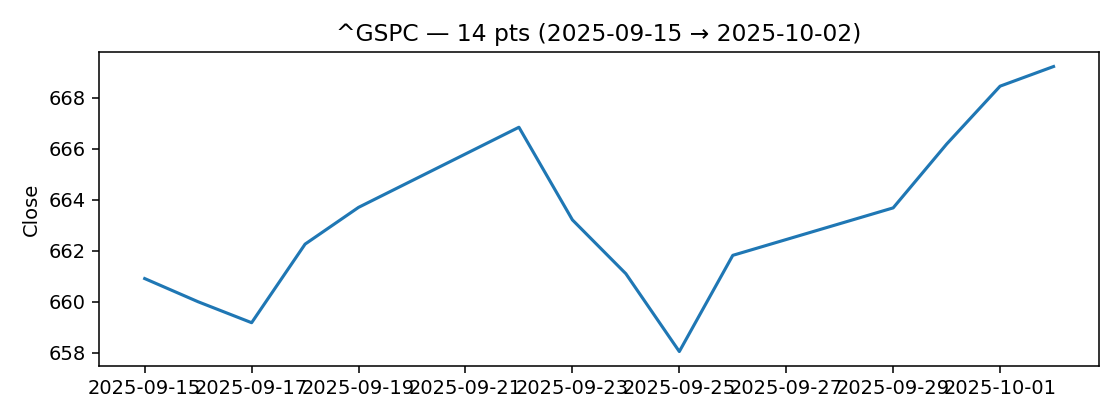
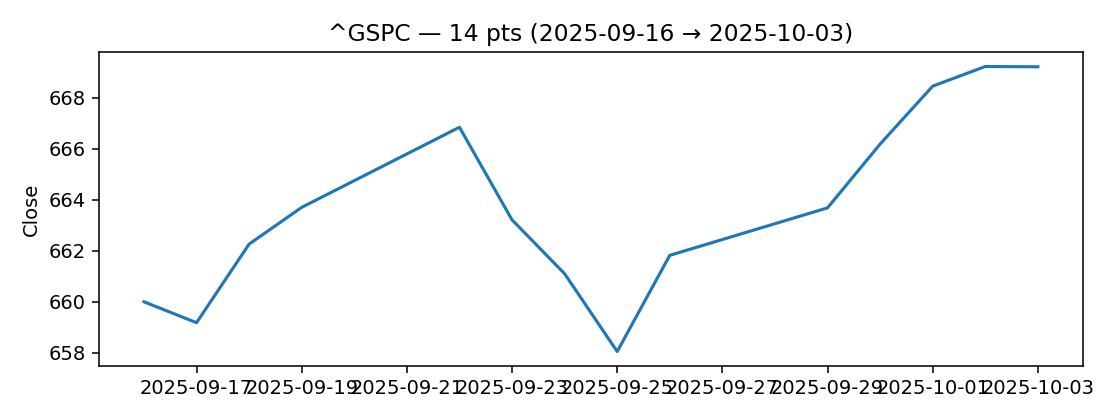
chore: update daily report 2025-10-04 08:45

diff --git a/docs/daily_report.html b/docs/daily_report.html
@@ -108,7 +108,7 @@
   <header>
     <div>
       <h1>Daily Study & News Companion</h1>
-      <div class="sub">2025-10-03 08:18 · TZ: CST</div>
+      <div class="sub">2025-10-04 08:45 · TZ: CST</div>
     </div>
     <button class="btn" id="themeBtn">🌓 Tema</button>
   </header>
@@ -150,11 +150,11 @@
           </div>
           <div class="mkt-body">
             <div class="metrics-row">
-          <div class="kv"><span>Last</span><b>222.41</b></div>
-          <div class="kv"><span>d/d</span><b class="down">-3.90%</b></div>
+          <div class="kv"><span>Last</span><b>219.51</b></div>
+          <div class="kv"><span>d/d</span><b class="down">-6.21%</b></div>
           <div class="kv"><span>Mín</span><b>218.15</b></div>
           <div class="kv"><span>Máx</span><b>234.05</b></div>
-          <div class="kv"><span>σ</span><b>5.56</b></div>
+          <div class="kv"><span>σ</span><b>5.44</b></div>
         </div>
             <div class="chart"><img src="charts/AMZN_close.png" alt="AMZN chart" loading="lazy"/></div>
           </div>
@@ -167,11 +167,11 @@
           </div>
           <div class="mkt-body">
             <div class="metrics-row">
-          <div class="kv"><span>Last</span><b>515.74</b></div>
-          <div class="kv"><span>d/d</span><b class="up">0.07%</b></div>
+          <div class="kv"><span>Last</span><b>517.35</b></div>
+          <div class="kv"><span>d/d</span><b class="up">1.63%</b></div>
           <div class="kv"><span>Mín</span><b>507.03</b></div>
           <div class="kv"><span>Máx</span><b>519.71</b></div>
-          <div class="kv"><span>σ</span><b>3.94</b></div>
+          <div class="kv"><span>σ</span><b>4.06</b></div>
         </div>
             <div class="chart"><img src="charts/MSFT_close.png" alt="MSFT chart" loading="lazy"/></div>
           </div>
@@ -184,11 +184,11 @@
           </div>
           <div class="mkt-body">
             <div class="metrics-row">
-          <div class="kv"><span>Last</span><b>188.89</b></div>
-          <div class="kv"><span>d/d</span><b class="up">6.27%</b></div>
+          <div class="kv"><span>Last</span><b>187.62</b></div>
+          <div class="kv"><span>d/d</span><b class="up">7.28%</b></div>
           <div class="kv"><span>Mín</span><b>170.29</b></div>
           <div class="kv"><span>Máx</span><b>188.89</b></div>
-          <div class="kv"><span>σ</span><b>5.08</b></div>
+          <div class="kv"><span>σ</span><b>5.43</b></div>
         </div>
             <div class="chart"><img src="charts/NVDA_close.png" alt="NVDA chart" loading="lazy"/></div>
           </div>
@@ -201,11 +201,11 @@
           </div>
           <div class="mkt-body">
             <div class="metrics-row">
-          <div class="kv"><span>Last</span><b>436.00</b></div>
-          <div class="kv"><span>d/d</span><b class="up">6.33%</b></div>
-          <div class="kv"><span>Mín</span><b>410.04</b></div>
+          <div class="kv"><span>Last</span><b>429.83</b></div>
+          <div class="kv"><span>d/d</span><b class="up">1.95%</b></div>
+          <div class="kv"><span>Mín</span><b>416.85</b></div>
           <div class="kv"><span>Máx</span><b>459.46</b></div>
-          <div class="kv"><span>σ</span><b>12.69</b></div>
+          <div class="kv"><span>σ</span><b>11.15</b></div>
         </div>
             <div class="chart"><img src="charts/TSLA_close.png" alt="TSLA chart" loading="lazy"/></div>
           </div>
@@ -218,11 +218,11 @@
           </div>
           <div class="mkt-body">
             <div class="metrics-row">
-          <div class="kv"><span>Last</span><b>669.22</b></div>
-          <div class="kv"><span>d/d</span><b class="up">1.26%</b></div>
+          <div class="kv"><span>Last</span><b>669.21</b></div>
+          <div class="kv"><span>d/d</span><b class="up">1.40%</b></div>
           <div class="kv"><span>Mín</span><b>658.05</b></div>
           <div class="kv"><span>Máx</span><b>669.22</b></div>
-          <div class="kv"><span>σ</span><b>3.29</b></div>
+          <div class="kv"><span>σ</span><b>3.57</b></div>
         </div>
             <div class="chart"><img src="charts/^GSPC_close.png" alt="^GSPC chart" loading="lazy"/></div>
           </div>
@@ -250,8 +250,20 @@
             <ul class="news-list">
               <li class="news-item" data-topic="AI">
                 <span class="dot"></span>
-                <a href="https://www.bloomberg.com/news/articles/2025-10-03/us-stocks-edge-higher-on-optimism-over-ai-momentum-fed-easing" target="_blank" rel="noreferrer">US Stocks Edge Higher on Optimism Over AI Momentum, Fed Easing</a>
-                <div class="meta">2025-10-03 13:38 · <span class="src">Natalia Kniazhevich</span></div>
+                <a href="https://www.bloomberg.com/news/articles/2025-10-04/the-big-ai-trade-in-europe-is-all-about-data-centers-and-power" target="_blank" rel="noreferrer">The Big AI Trade in Europe Is All About Data Centers and Power</a>
+                <div class="meta">2025-10-04 08:00 · <span class="src">Margaryta Kirakosian, Sagarika Jaisinghani</span></div>
+              </li>
+            
+              <li class="news-item" data-topic="AI">
+                <span class="dot"></span>
+                <a href="https://www.bloomberg.com/news/articles/2025-10-03/blackrock-s-40-billion-bet-on-a-lesser-known-data-center-firm" target="_blank" rel="noreferrer">BlackRock’s $40 Billion Bet on a Lesser-Known Data Center Firm</a>
+                <div class="meta">2025-10-03 20:41 · <span class="src">Emily Forgash</span></div>
+              </li>
+            
+              <li class="news-item" data-topic="AI">
+                <span class="dot"></span>
+                <a href="https://www.bloomberg.com/news/videos/2025-10-03/opinion-sora-is-sam-altman-s-new-ai-time-suck-video" target="_blank" rel="noreferrer">Sora Is Sam Altman’s New AI Time Suck</a>
+                <div class="meta">2025-10-03 14:54 · <span class="src">www.bloomberg.com</span></div>
               </li>
             
               <li class="news-item" data-topic="AI">
@@ -262,26 +274,14 @@
             
               <li class="news-item" data-topic="AI">
                 <span class="dot"></span>
-                <a href="https://www.bloomberg.com/news/videos/2025-10-03/the-opening-trade-10-3-video" target="_blank" rel="noreferrer">BBVA & Sabadell Clash as Bid Enters Final Days, European Stocks Record High | The Opening Trade 10/3</a>
-                <div class="meta">2025-10-03 11:42 · <span class="src">www.bloomberg.com</span></div>
-              </li>
-            
-              <li class="news-item" data-topic="AI">
-                <span class="dot"></span>
                 <a href="https://www.bloomberg.com/news/newsletters/2025-10-03/openai-s-sora-video-app-raises-risk-for-rampant-misinformation" target="_blank" rel="noreferrer">OpenAI’s Sora Video App Heightens Risk for Misinformation</a>
                 <div class="meta">2025-10-03 11:03 · <span class="src">Rachel Metz</span></div>
               </li>
             
               <li class="news-item" data-topic="AI">
                 <span class="dot"></span>
-                <a href="https://www.bloomberg.com/news/articles/2025-10-03/european-stocks-set-for-best-week-since-may-on-ai-optimism" target="_blank" rel="noreferrer">European Stocks Set for Best Week Since May on AI Optimism</a>
-                <div class="meta">2025-10-03 07:17 · <span class="src">Levin Stamm</span></div>
-              </li>
-            
-              <li class="news-item" data-topic="AI">
-                <span class="dot"></span>
-                <a href="https://www.bloomberg.com/news/articles/2025-10-03/emerging-markets-pause-for-breath-as-us-shutdown-delays-data" target="_blank" rel="noreferrer">Emerging Market Stocks Extend Rally as Investors Bet on AI Deals</a>
-                <div class="meta">2025-10-03 06:20 · <span class="src">Malavika Kaur Makol, Mpho Hlakudi</span></div>
+                <a href="https://www.bloomberg.com/news/articles/2025-10-03/buy-resources-and-uk-stocks-to-tap-ai-boom-bofa-s-hartnett-says" target="_blank" rel="noreferrer">BofA’s Hartnett Recommends Resources, UK Stocks to Bet on AI</a>
+                <div class="meta">2025-10-03 09:58 · <span class="src">Michael Msika</span></div>
               </li>
             </ul>
           </div>
@@ -291,38 +291,38 @@
             <ul class="news-list">
               <li class="news-item" data-topic="Fintech">
                 <span class="dot"></span>
-                <a href="https://www.bloomberg.com/news/articles/2025-10-03/doubleline-says-shutdown-adds-fuel-to-popular-treasuries-trade" target="_blank" rel="noreferrer">DoubleLine Says Shutdown Adds Fuel to Popular Treasuries Trade</a>
-                <div class="meta">2025-10-03 13:00 · <span class="src">Liz Capo McCormick</span></div>
+                <a href="https://www.ft.com/content/5cf7fbb4-d8e3-4e39-913c-da2fd8fba343" target="_blank" rel="noreferrer">Lloyds stumbles in its wealth management dash for cash</a>
+                <div class="meta">2025-10-04 04:00 · <span class="src">www.ft.com</span></div>
               </li>
             
               <li class="news-item" data-topic="Fintech">
                 <span class="dot"></span>
-                <a href="https://www.bloomberg.com/news/articles/2025-10-03/hsbc-is-said-to-lose-another-top-ipo-banker-for-the-middle-east" target="_blank" rel="noreferrer">HSBC Is Said to Lose Another Top IPO Banker for the Middle East</a>
-                <div class="meta">2025-10-03 12:17 · <span class="src">Nicolas Parasie, Laura Gardner Cuesta</span></div>
+                <a href="https://www.bloomberg.com/news/articles/2025-10-03/coinbase-seeks-occ-trust-charter-to-grow-payments-business" target="_blank" rel="noreferrer">Coinbase Seeks OCC Trust Charter to Grow Payments Business</a>
+                <div class="meta">2025-10-03 21:29 · <span class="src">Olga Kharif</span></div>
               </li>
             
               <li class="news-item" data-topic="Fintech">
                 <span class="dot"></span>
-                <a href="https://www.bloomberg.com/news/articles/2025-10-03/bofa-s-raedler-sees-european-stocks-slumping-more-than-10" target="_blank" rel="noreferrer">BofA’s Raedler Sees European Stocks Slumping More Than 10%</a>
-                <div class="meta">2025-10-03 11:31 · <span class="src">Levin Stamm</span></div>
+                <a href="https://www.bloomberg.com/news/articles/2025-10-03/tricolor-trustee-says-initial-probes-suggest-pervasive-fraud" target="_blank" rel="noreferrer">Tricolor Trustee Is Probing Fraud of ‘Extraordinary Proportion’</a>
+                <div class="meta">2025-10-03 20:15 · <span class="src">Steven Church, Paige Smith</span></div>
+              </li>
+            
+              <li class="news-item" data-topic="Fintech">
+                <span class="dot"></span>
+                <a href="https://www.bloomberg.com/news/videos/2025-10-03/beach-point-on-first-brands-fallout-private-debt-risks-video" target="_blank" rel="noreferrer">Beach Point on Dispersion in Credit Markets</a>
+                <div class="meta">2025-10-03 16:27 · <span class="src">www.bloomberg.com</span></div>
+              </li>
+            
+              <li class="news-item" data-topic="Fintech">
+                <span class="dot"></span>
+                <a href="https://www.bloomberg.com/news/articles/2025-10-03/fdic-set-to-jump-into-trump-s-debanking-fight-with-new-plan" target="_blank" rel="noreferrer">FDIC Set to Jump Into Trump’s Debanking Fight With New Plan</a>
+                <div class="meta">2025-10-03 16:11 · <span class="src">Katanga Johnson</span></div>
               </li>
             
               <li class="news-item" data-topic="Fintech">
                 <span class="dot"></span>
                 <a href="https://www.bloomberg.com/news/articles/2025-10-03/reliance-is-said-to-hold-talks-with-banks-for-record-jio-ipo" target="_blank" rel="noreferrer">Reliance Is Said to Hold Talks With Banks for Record Jio IPO</a>
                 <div class="meta">2025-10-03 10:23 · <span class="src">Sanjai P R, Baiju Kalesh</span></div>
-              </li>
-            
-              <li class="news-item" data-topic="Fintech">
-                <span class="dot"></span>
-                <a href="https://www.bloomberg.com/news/articles/2025-10-03/indian-finance-minister-says-economy-can-withstand-global-shocks" target="_blank" rel="noreferrer">India’s Top Economic Officials Talk Up Growth as US Tariffs Hit</a>
-                <div class="meta">2025-10-03 06:36 · <span class="src">Ruchi Bhatia</span></div>
-              </li>
-            
-              <li class="news-item" data-topic="Fintech">
-                <span class="dot"></span>
-                <a href="https://www.bloomberg.com/news/articles/2025-10-02/stock-market-today-dow-s-p-live-updates" target="_blank" rel="noreferrer">US Bond Yields Climb as Goolsbee Counsels Caution: Markets Wrap</a>
-                <div class="meta">2025-10-02 22:22 · <span class="src">Cristin Flanagan</span></div>
               </li>
             </ul>
           </div>
@@ -332,38 +332,38 @@
             <ul class="news-list">
               <li class="news-item" data-topic="General">
                 <span class="dot"></span>
-                <a href="https://www.bloomberg.com/news/articles/2025-10-03/milei-s-48-hour-tariff-pause-spurs-record-surge-in-crop-exports" target="_blank" rel="noreferrer">Milei’s 48-Hour Tariff Pause Spurs Record Surge in Crop Exports</a>
-                <div class="meta">2025-10-03 13:50 · <span class="src">Jonathan Gilbert</span></div>
+                <a href="https://www.bloomberg.com/news/articles/2025-10-04/venezuela-boat-strikes-maduro-s-drug-war-push-fails-to-relieve-trump-pressure" target="_blank" rel="noreferrer">Maduro’s Drug War Push Fails to Relieve Trump’s Maximum Pressure</a>
+                <div class="meta">2025-10-04 13:30 · <span class="src">Andreina Itriago, Fabiola Zerpa</span></div>
               </li>
             
               <li class="news-item" data-topic="General">
                 <span class="dot"></span>
-                <a href="https://www.bloomberg.com/news/articles/2025-10-03/eni-totalenergies-lng-moves-drive-mozambique-bond-rally" target="_blank" rel="noreferrer">Mozambique Bond Yields Hit 2022 Low on LNG Project Momentum</a>
-                <div class="meta">2025-10-03 13:34 · <span class="src">Mpho Hlakudi</span></div>
+                <a href="https://www.bloomberg.com/news/videos/2025-10-04/the-key-economic-data-at-risk-as-the-us-government-shutdown-continues" target="_blank" rel="noreferrer">The Key Economic Data at Risk as the US Government Shutdown Continues</a>
+                <div class="meta">2025-10-04 13:04 · <span class="src">www.bloomberg.com</span></div>
               </li>
             
               <li class="news-item" data-topic="General">
                 <span class="dot"></span>
-                <a href="https://www.bloomberg.com/news/articles/2025-10-03/pharma-stocks-eye-best-week-in-16-years-as-trump-overhang-eases" target="_blank" rel="noreferrer">Pharma Stocks Eye Best Week in 16 Years as Trump Overhang Eases</a>
-                <div class="meta">2025-10-03 13:28 · <span class="src">Angel Adegbesan</span></div>
+                <a href="https://www.bloomberg.com/news/newsletters/2025-10-04/why-america-needs-to-restore-its-essential-economy-and-embrace-ai" target="_blank" rel="noreferrer">Why America Needs to Restore Its ‘Essential Economy’ and Embrace AI</a>
+                <div class="meta">2025-10-04 12:00 · <span class="src">David Westin</span></div>
               </li>
             
               <li class="news-item" data-topic="General">
                 <span class="dot"></span>
-                <a href="https://www.bloomberg.com/news/articles/2025-10-03/canadian-funds-bet-on-nation-building-amid-us-tariffs-taunts" target="_blank" rel="noreferrer">Canadian Funds Bet on ‘Nation-Building’ Amid US Tariffs, Taunts</a>
-                <div class="meta">2025-10-03 13:15 · <span class="src">Geoffrey Morgan</span></div>
+                <a href="https://www.bloomberg.com/news/articles/2025-10-04/new-york-s-roosevelt-hotel-may-make-way-for-new-skyscraper" target="_blank" rel="noreferrer">New York’s Roosevelt Hotel May Make Way for New Skyscraper</a>
+                <div class="meta">2025-10-04 10:09 · <span class="src">Tooba Khan, Dan Strumpf</span></div>
               </li>
             
               <li class="news-item" data-topic="General">
                 <span class="dot"></span>
-                <a href="https://www.bloomberg.com/news/articles/2025-10-03/stock-bulls-can-t-get-enough-of-s-p-as-rally-enters-manic-zone" target="_blank" rel="noreferrer">Stock Bulls Can’t Get Enough of S&amp;P as Rally Enters ‘Manic’ Zone</a>
-                <div class="meta">2025-10-03 09:30 · <span class="src">Natalia Kniazhevich</span></div>
+                <a href="https://www.bloomberg.com/news/articles/2025-10-04/imf-says-talks-on-new-senegal-program-will-start-mid-october" target="_blank" rel="noreferrer">IMF Says Talks on New Senegal Program Will Start Mid-October</a>
+                <div class="meta">2025-10-04 09:14 · <span class="src">Katarina Hoije</span></div>
               </li>
             
               <li class="news-item" data-topic="General">
                 <span class="dot"></span>
-                <a href="https://www.bloomberg.com/news/articles/2025-10-02/first-brands-lenders-hand-lifeline-to-effectively-a-black-box" target="_blank" rel="noreferrer">First Brands Group Lenders Provide Lifeline to ‘A Black Box’</a>
-                <div class="meta">2025-10-02 22:09 · <span class="src">Jonathan Randles</span></div>
+                <a href="https://www.bloomberg.com/news/newsletters/2025-10-04/why-korea-is-becoming-the-new-japan-merryn-talks-money" target="_blank" rel="noreferrer">Why Korea Is Becoming the New Japan</a>
+                <div class="meta">2025-10-04 05:30 · <span class="src">Merryn Somerset Webb</span></div>
               </li>
             </ul>
           </div>
@@ -373,20 +373,26 @@
             <ul class="news-list">
               <li class="news-item" data-topic="Machine Learning">
                 <span class="dot"></span>
-                <a href="https://www.bloomberg.com/news/articles/2025-10-03/poland-plans-record-quarterly-zloty-bond-sales-as-debt-grows" target="_blank" rel="noreferrer">Poland Plans Record Quarterly Zloty-Bond Sales as Debt Grows</a>
-                <div class="meta">2025-10-03 11:55 · <span class="src">Konrad Krasuski</span></div>
+                <a href="https://www.bloomberg.com/news/videos/2025-10-03/tequila-is-the-fastest-growing-spirit-lisa-barlow-video" target="_blank" rel="noreferrer">Tequila is the Fastest Growing Spirit: Lisa Barlow</a>
+                <div class="meta">2025-10-03 23:23 · <span class="src">www.bloomberg.com</span></div>
               </li>
             
               <li class="news-item" data-topic="Machine Learning">
                 <span class="dot"></span>
-                <a href="https://www.bloomberg.com/news/articles/2025-10-03/russia-s-oil-revenue-falls-by-fifth-on-weak-crude-prices-strong-ruble" target="_blank" rel="noreferrer">Russia’s Oil Revenue Falls by Fifth on Weak Crude Prices, Strong Ruble</a>
-                <div class="meta">2025-10-03 11:44 · <span class="src">Alaric Nightingale</span></div>
+                <a href="https://www.bloomberg.com/news/videos/2025-10-03/economy-of-tomorrow-wall-street-week-video" target="_blank" rel="noreferrer">Economy of Tomorrow | Wall Street Week</a>
+                <div class="meta">2025-10-03 23:14 · <span class="src">www.bloomberg.com</span></div>
               </li>
             
               <li class="news-item" data-topic="Machine Learning">
                 <span class="dot"></span>
-                <a href="https://www.bloomberg.com/news/articles/2025-10-03/ecb-should-cut-rates-to-boost-economy-italy-s-finance-chief-says" target="_blank" rel="noreferrer">ECB Should Cut Rates to Boost Economy, Italy’s Finance Chief Says</a>
-                <div class="meta">2025-10-03 11:37 · <span class="src">Alessandra Migliaccio</span></div>
+                <a href="https://www.bloomberg.com/news/videos/2025-10-03/-credit-herd-will-be-separated-with-stress-oaktree-s-rosenberg" target="_blank" rel="noreferrer">'Credit Herd Will Be Separated' With Stress: Oaktree's Rosenberg</a>
+                <div class="meta">2025-10-03 21:29 · <span class="src">www.bloomberg.com</span></div>
+              </li>
+            
+              <li class="news-item" data-topic="Machine Learning">
+                <span class="dot"></span>
+                <a href="https://www.bloomberg.com/news/articles/2025-10-03/us-stocks-edge-higher-on-optimism-over-ai-momentum-fed-easing" target="_blank" rel="noreferrer">US Stock Rally Hits Wall as Tech Shares Weigh on Indexes</a>
+                <div class="meta">2025-10-03 13:38 · <span class="src">Natalia Kniazhevich</span></div>
               </li>
             
               <li class="news-item" data-topic="Machine Learning">
@@ -397,14 +403,8 @@
             
               <li class="news-item" data-topic="Machine Learning">
                 <span class="dot"></span>
-                <a href="https://www.bloomberg.com/news/articles/2025-10-02/amazon-delivery-drone-collision-near-phoenix-probed-by-faa-ntsb" target="_blank" rel="noreferrer">Amazon to Resume Drone Deliveries Near Phoenix After Crashes</a>
-                <div class="meta">2025-10-02 19:47 · <span class="src">Matt Day, Allyson Versprille</span></div>
-              </li>
-            
-              <li class="news-item" data-topic="Machine Learning">
-                <span class="dot"></span>
-                <a href="https://www.bloomberg.com/news/newsletters/2025-10-02/taylor-swift-s-new-album-will-be-promoted-by-everyone-except-taylor-swift" target="_blank" rel="noreferrer">Taylor Swift’s New Album Will Be Promoted by Everyone Except Taylor Swift</a>
-                <div class="meta">2025-10-02 18:00 · <span class="src">Ashley Carman</span></div>
+                <a href="https://www.ft.com/content/982d58a1-1b6d-4149-b1dc-0cc7924c7223" target="_blank" rel="noreferrer">Deutsche Bank needs Germany’s fiscal bazooka to have perfect aim</a>
+                <div class="meta">2025-10-03 04:00 · <span class="src">www.ft.com</span></div>
               </li>
             </ul>
           </div>
@@ -414,7 +414,7 @@
     </main>
   </div>
 
-  <footer>Generado localmente · 2025-10-03 08:18</footer>
+  <footer>Generado localmente · 2025-10-04 08:45</footer>
 
   <script>
     'use strict';
